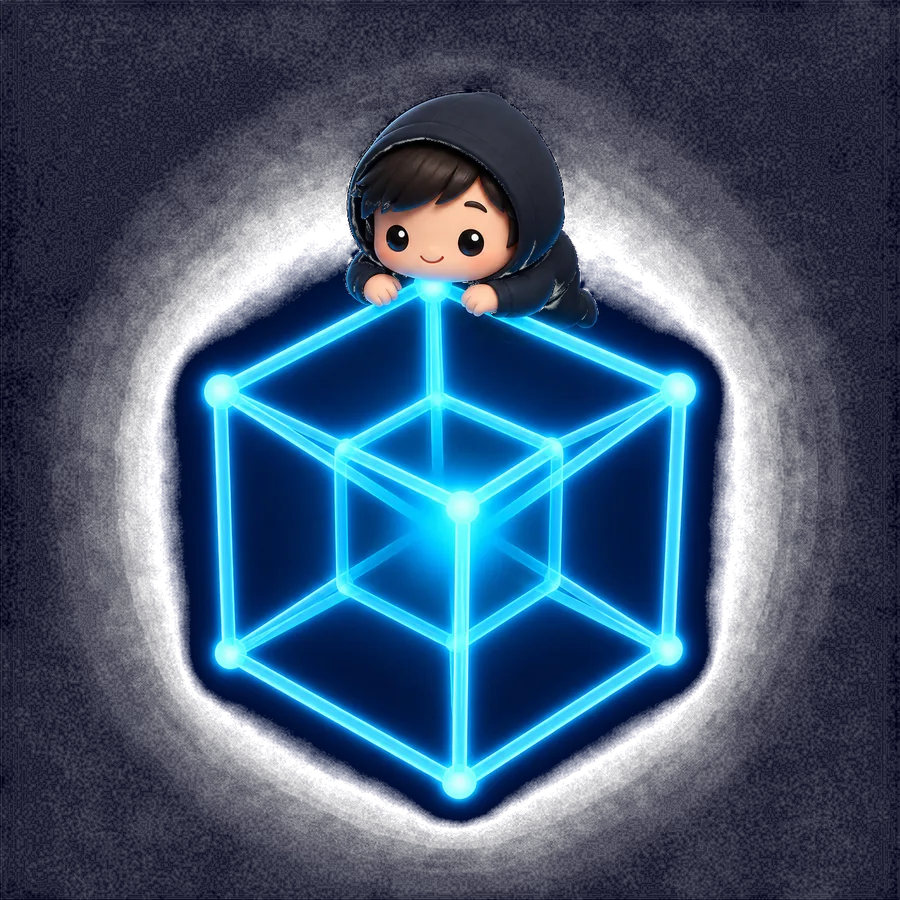
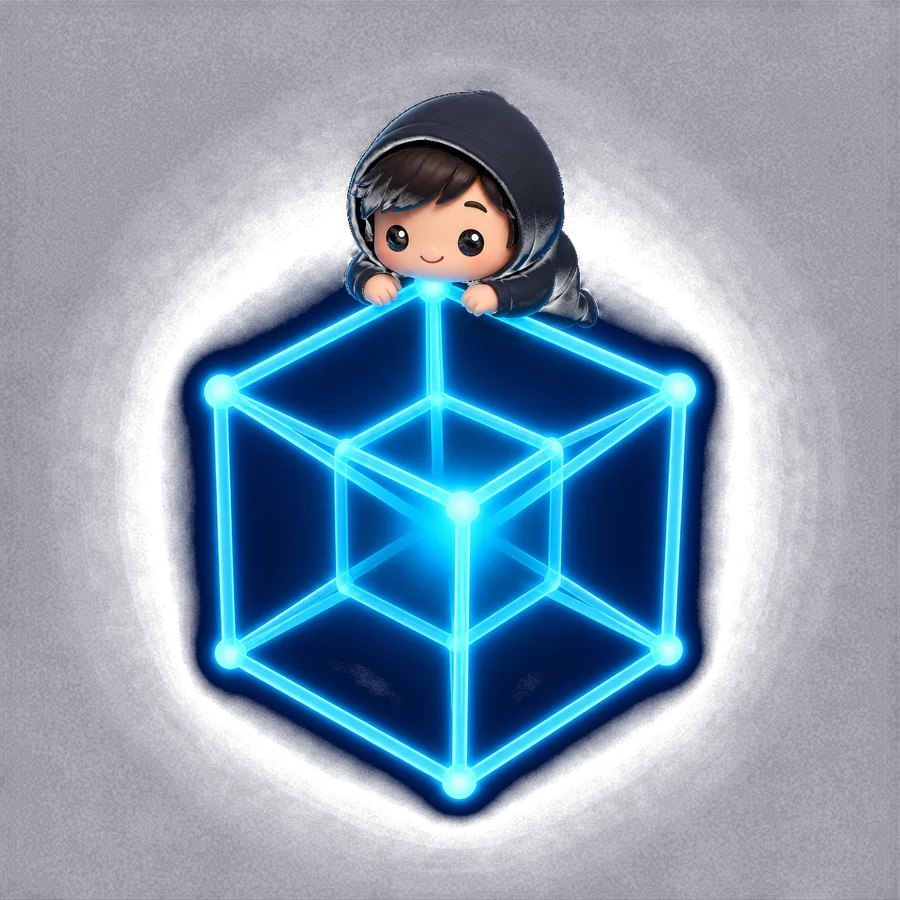
Hero art: keep the artwork's own alpha, no amplified background
The previous pass brightened the mascot's dark backdrop into a visible
square. The mask now only feathers the corners, so the glow falls off
through the image's own alpha channel.

diff --git a/assets/css/site.css b/assets/css/site.css
@@ -415,9 +415,9 @@ h3 { font-size: 1.12rem; letter-spacing: -0.015em; line-height: 1.35; }
 .hero-art .hero-mascot img {
   width: 100%;
   height: auto;
-  filter: drop-shadow(0 0 30px rgba(0, 200, 255, 0.22));
-  -webkit-mask-image: radial-gradient(circle at 50% 47%, #000 54%, rgba(0, 0, 0, 0.92) 70%, rgba(0, 0, 0, 0.6) 84%, transparent 100%);
-  mask-image: radial-gradient(circle at 50% 47%, #000 54%, rgba(0, 0, 0, 0.92) 70%, rgba(0, 0, 0, 0.6) 84%, transparent 100%);
+  filter: drop-shadow(0 0 22px rgba(0, 200, 255, 0.16));
+  -webkit-mask-image: radial-gradient(circle farthest-corner at 50% 46%, #000 80%, rgba(0, 0, 0, 0.75) 96%, transparent 128%);
+  mask-image: radial-gradient(circle farthest-corner at 50% 46%, #000 80%, rgba(0, 0, 0, 0.75) 96%, transparent 128%);
 }
 .hero-art .tag {
   position: absolute;
@@ -753,6 +753,8 @@ h3 { font-size: 1.12rem; letter-spacing: -0.015em; line-height: 1.35; }
   width: min(104px, 36%);
   margin-bottom: -6px;
   filter: drop-shadow(0 0 24px rgba(0, 200, 255, 0.28));
+  -webkit-mask-image: radial-gradient(circle farthest-corner at 50% 50%, #000 78%, transparent 120%);
+  mask-image: radial-gradient(circle farthest-corner at 50% 50%, #000 78%, transparent 120%);
 }
 .hero-phone .hero-mark img { width: 100%; height: auto; }
 .hero-phone .shot { position: relative; display: block; }
